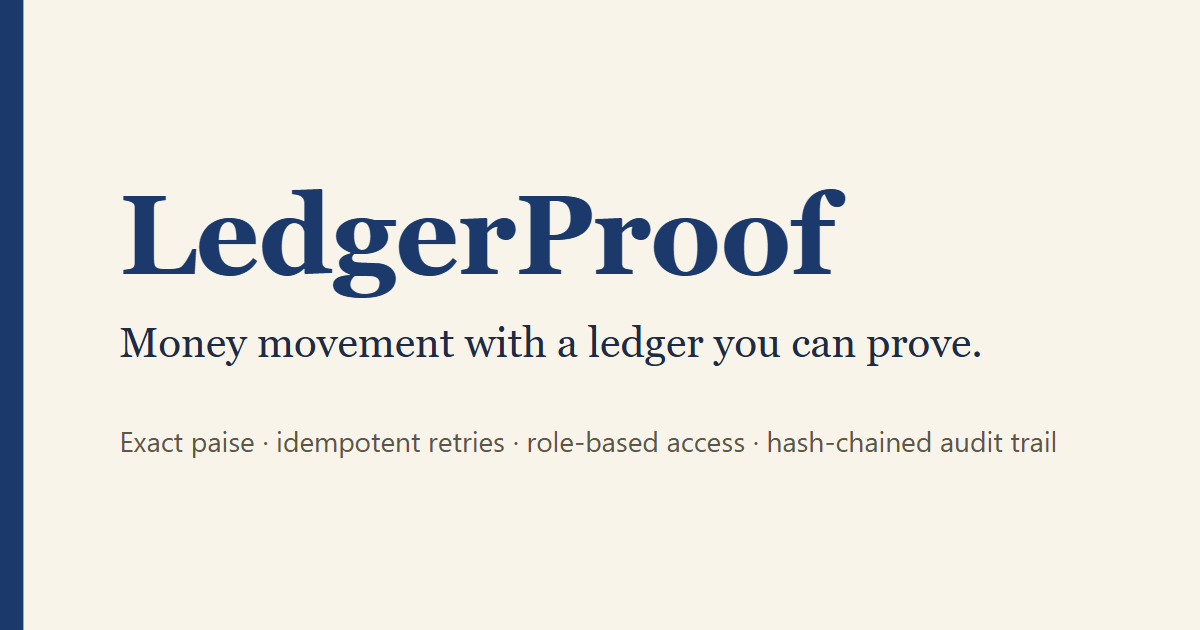
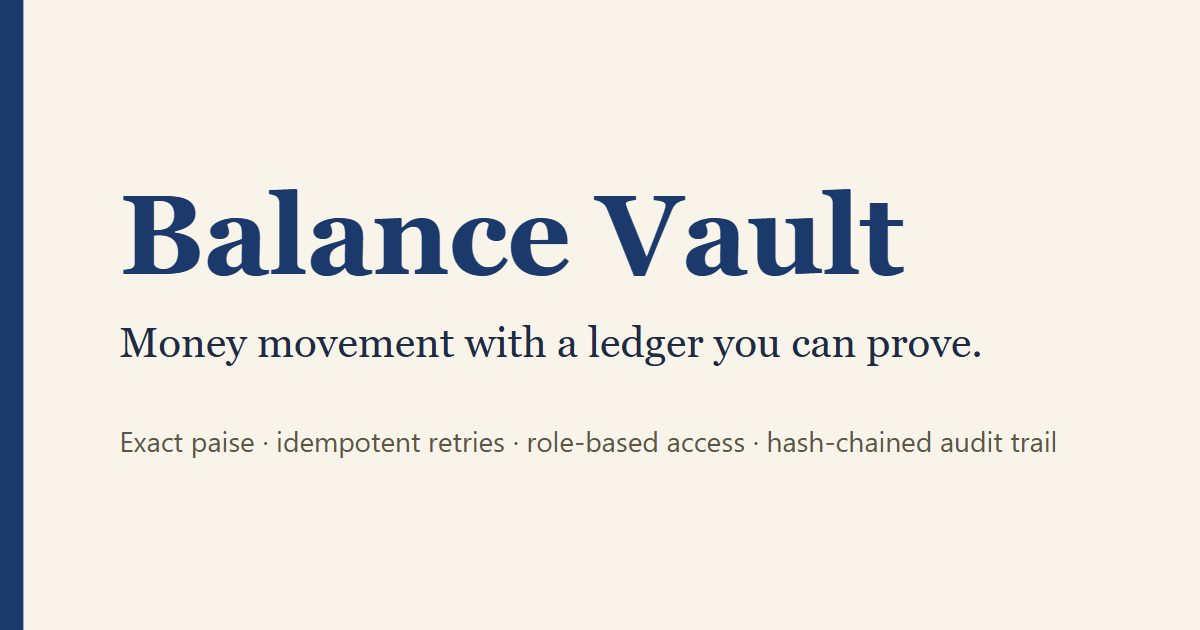
feat(web): rename the product's display name to Balance Vault
The header, sign-in heading, page title, description, Open Graph text and
image alt, the 404 page, the share image, the README heading and the
product-name sentences in PRIVACY.md, TERMS.md and SNOVASYS_SUBMISSION.md
now say Balance Vault. The repository, live URLs, Vercel and Supabase
projects, database role and objects, package names, storage key and the
audit-chain genesis constant keep the name ledgerproof on purpose.

A new web test fails if the header, sign-in heading, index.html or the 404
page shows the old name outside an address.

Verify: cd web; npx vitest run (40/40); npx vite build. In a browser at 390
and 1440 px no view shows the old name.

Changed region(s): [[0.1233, 0.3016, 0.7708, 0.4825]]

diff --git a/web/index.html b/web/index.html
@@ -3,19 +3,19 @@
   <head>
     <meta charset="UTF-8" />
     <meta name="viewport" content="width=device-width, initial-scale=1.0" />
-    <title>LedgerProof: a double-entry ledger demo</title>
-    <meta name="description" content="LedgerProof is a demo double-entry ledger: transfers in exact paise, idempotent retries, role-based access, reconciliation and a hash-chained audit trail." />
+    <title>Balance Vault: a double-entry ledger demo</title>
+    <meta name="description" content="Balance Vault is a demo double-entry ledger: transfers in exact paise, idempotent retries, role-based access, reconciliation and a hash-chained audit trail." />
     <link rel="canonical" href="https://ledgerproof-web.vercel.app/" />
     <link rel="icon" href="/favicon.svg" type="image/svg+xml" />
     <meta name="theme-color" content="#1b3a6b" />
     <meta property="og:type" content="website" />
-    <meta property="og:title" content="LedgerProof: a double-entry ledger demo" />
+    <meta property="og:title" content="Balance Vault: a double-entry ledger demo" />
     <meta property="og:description" content="Transfers in exact paise, idempotent retries, role-based access, reconciliation and a hash-chained audit trail." />
     <meta property="og:url" content="https://ledgerproof-web.vercel.app/" />
     <meta property="og:image" content="https://ledgerproof-web.vercel.app/og.png" />
     <meta property="og:image:width" content="1200" />
     <meta property="og:image:height" content="630" />
-    <meta property="og:image:alt" content="LedgerProof: money movement with a ledger you can prove." />
+    <meta property="og:image:alt" content="Balance Vault: money movement with a ledger you can prove." />
     <meta name="twitter:card" content="summary_large_image" />
   </head>
   <body>

diff --git a/web/src/brand.test.js b/web/src/brand.test.js
@@ -1,0 +1,23 @@
+import { readFileSync } from "node:fs";
+import { describe, expect, it } from "vitest";
+
+const read = (path) => readFileSync(new URL(path, import.meta.url), "utf8");
+
+// Addresses and storage keys keep the technical name `ledgerproof`; only the words people read must say Balance Vault.
+const withoutIdentifiers = (text) => text.replace(/https?:\/\/\S+/g, "").replace(/ledgerproof[.\w-]*/g, "");
+
+describe("product name", () => {
+  const shown = {
+    "index.html (title, description, Open Graph)": read("../index.html"),
+    "404.html": read("../public/404.html"),
+    "App.jsx (header)": read("./App.jsx"),
+    "Login.jsx (sign-in heading)": read("./views/Login.jsx"),
+  };
+
+  for (const [where, text] of Object.entries(shown)) {
+    it(`${where} says Balance Vault and never LedgerProof`, () => {
+      expect(text).toContain("Balance Vault");
+      expect(withoutIdentifiers(text)).not.toMatch(/ledger[ -]?proof|ledger[ -]?vault/i);
+    });
+  }
+});

diff --git a/web/public/404.html b/web/public/404.html
@@ -4,14 +4,14 @@
     <meta charset="UTF-8" />
     <meta name="viewport" content="width=device-width, initial-scale=1.0" />
     <meta name="robots" content="noindex" />
-    <title>Page not found | LedgerProof</title>
+    <title>Page not found | Balance Vault</title>
     <link rel="icon" href="/favicon.svg" type="image/svg+xml" />
     <link rel="stylesheet" href="/404.css" />
   </head>
   <body>
     <main>
       <h1>Page not found</h1>
-      <p>LedgerProof has one page. The address you opened does not exist.</p>
+      <p>Balance Vault has one page. The address you opened does not exist.</p>
       <p><a href="/">Go to the sign-in page</a></p>
     </main>
   </body>

diff --git a/web/src/App.jsx b/web/src/App.jsx
@@ -17,7 +17,7 @@ export default function App() {
   return (
     <>
       <header className="topbar">
-        <strong className="brand">LedgerProof</strong>
+        <strong className="brand">Balance Vault</strong>
         <span className="who">
           {user.email} <Badge value={user.role} />
         </span>

diff --git a/web/src/views/Login.jsx b/web/src/views/Login.jsx
@@ -77,7 +77,7 @@ export function Login() {
   return (
     <main className="login">
       <header className="login-head">
-        <h1>LedgerProof</h1>
+        <h1>Balance Vault</h1>
         <p className="muted">Money movement with a ledger you can prove.</p>
       </header>
 

diff --git a/SNOVASYS_SUBMISSION.md b/SNOVASYS_SUBMISSION.md
@@ -7,7 +7,7 @@ Below are the ready-to-paste answers for the 6 Snovasys Hiring Challenge submiss
 
 ### Q1. What did you build?
 
-I built **LedgerProof**, a full-stack double-entry banking ledger, KYC onboarding workflow, and cryptographically verifiable audit trail with defense-in-depth across the **Node.js API** and **PostgreSQL**:
+I built **Balance Vault** (the repository, URLs and database objects are still named `ledgerproof`), a full-stack double-entry banking ledger, KYC onboarding workflow, and cryptographically verifiable audit trail with defense-in-depth across the **Node.js API** and **PostgreSQL**:
 - **Enforced in the Node.js API (backed by immutable DB columns and role grants):** HS256 JWT authentication and token revocation (`authenticate()`), route-level RBAC (`allowRoles()`), source-account ownership verification (`requireOwnAccount()`), and deterministic ascending-UUID lock ordering (`lockAccounts()`).
 - **Enforced in both the Node.js API and PostgreSQL triggers/constraints/grants:** double-entry conservation (`SUM(debit) == SUM(credit)` via `transfer()` and deferred trigger `check_transaction_balanced()`), non-negative user balances (`user_balance_not_negative` and `apply_ledger_entry()`), active-account status checks (`transfer()` and `apply_ledger_entry()`), per-user idempotency (`idempotency_keys (user_id, key)`), append-only history (`prevent_ledger_mutation`, `prevent_audit_mutation`, `reject_change`), SHA-256 hash-chained audit logging (`chain_audit_log()`), and least-privilege runtime DB execution (`ledgerproof_app`).
 

diff --git a/TERMS.md b/TERMS.md
@@ -3,7 +3,7 @@
 Status: draft written for a hiring-challenge demo. It has not been reviewed by a lawyer and is not
 published on the site. The owner must review and approve it before it is linked from the app.
 
-1. **Demo only.** LedgerProof is a demonstration. Balances and transfers are not real money and
+1. **Demo only.** Balance Vault is a demonstration. Balances and transfers are not real money and
    create no claim against anyone.
 2. **Demo accounts.** The published demo logins are shared. Anything done with them is visible to
    other evaluators. Do not enter real personal or financial information.

diff --git a/README.md b/README.md
@@ -1,6 +1,8 @@
-# LedgerProof (BalanceVault / LedgerLine)
+# Balance Vault
 
 Money movement with a ledger you can prove. Solo submission for the **Snovasys Fresher Hiring Challenge 2026 — VVIT**.
+
+**Naming:** the product's display name is Balance Vault. Earlier names still appear in technical identifiers and are kept on purpose: `ledgerproof` (the repository, the live URLs, the Vercel projects, the database role and package names) and LedgerLine (the demo email domain and the challenge's name for the project).
 
 ## Live
 

diff --git a/PRIVACY.md b/PRIVACY.md
@@ -4,7 +4,7 @@ Status: draft written for a hiring-challenge demo. It has not been reviewed by a
 published on the site. The owner must review it, name a contact, and decide the open points at the
 end before it is linked from the app.
 
-LedgerProof is a demonstration ledger. It moves no real money. Do not enter real personal or
+Balance Vault is a demonstration ledger. It moves no real money. Do not enter real personal or
 financial information.
 
 ## What the app stores
